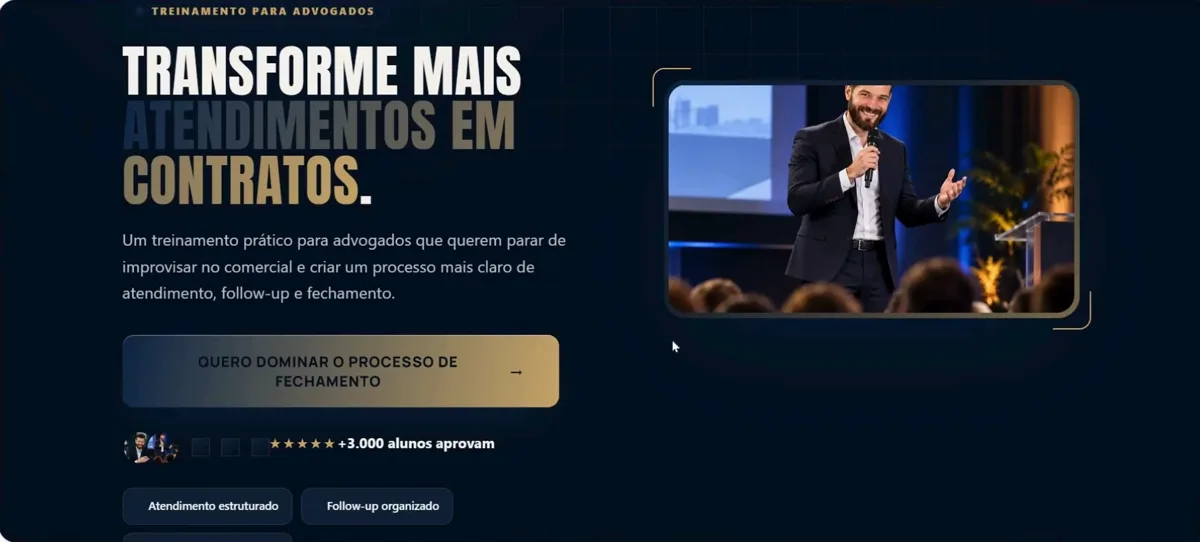
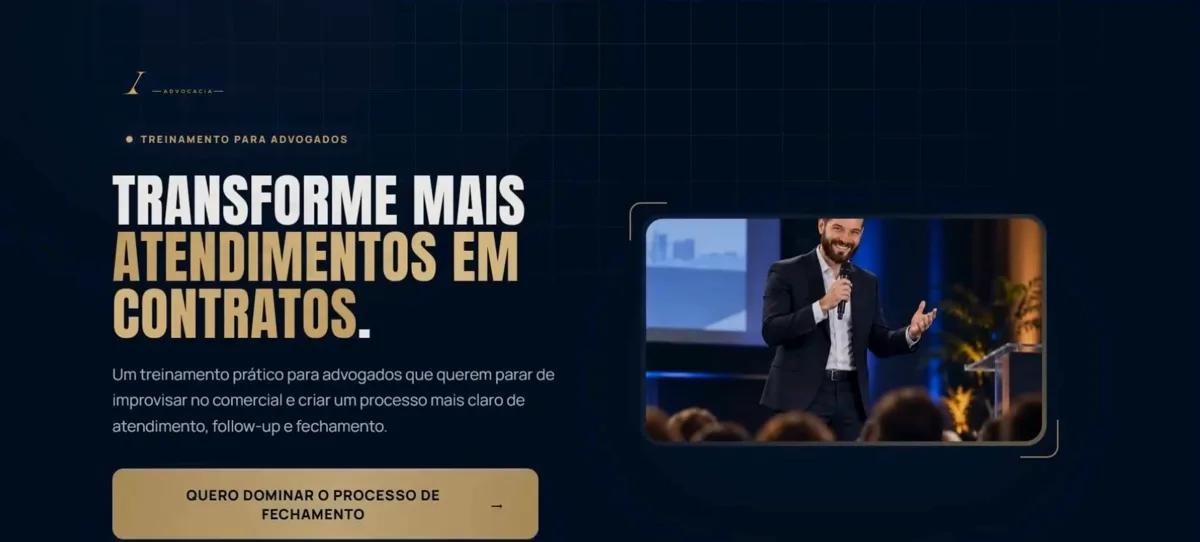
Páginas Prontas: remove linha de autoridade e usa versão ajustada da página de vendas no antes e depois
Claude-Session: https://claude.ai/code/session_01U7DvivHsMJ2KgQ86BEfceM

diff --git a/ketlin-espinoza-site/paginas-prontas.html b/ketlin-espinoza-site/paginas-prontas.html
@@ -89,11 +89,6 @@ mark{background:none;color:var(--roxo)}
 .cta-info b{color:var(--txt);font-weight:700}
 .cta-meio{margin-top:30px}
 
-/* AUTORIDADE (linha no hero) */
-.autoridade{display:inline-flex;align-items:center;gap:12px;margin:0 auto 22px;padding:8px 18px 8px 8px;background:#fff;border:1px solid var(--borda);border-radius:60px;text-align:left;font-size:14px;line-height:1.4;color:var(--mut);max-width:620px}
-.autoridade img{width:44px;height:44px;border-radius:50%;flex:none;object-fit:cover}
-.autoridade b{color:var(--txt);font-weight:700}
-
 /* DEMO (vídeo em loop, funciona como GIF) */
 .demo .tela-demo{max-width:900px;margin:28px auto 0;border-radius:18px;overflow:hidden;background:#0d1426;box-shadow:0 30px 60px -25px rgba(23,9,48,.55);border:6px solid #fff}
 .demo video{display:block;width:100%;height:auto;aspect-ratio:2/1;background:#0d1426}
@@ -338,8 +333,6 @@ details p{padding:0 0 18px;color:var(--mut);line-height:1.65}
   .lista-check li{font-size:14.5px;padding:12px 14px}
   .btn{font-size:16.5px;padding:18px 18px}
   .recap .l{padding:13px 16px;font-size:14.5px}
-  .autoridade{font-size:12.5px;padding:6px 14px 6px 6px;gap:10px;border-radius:22px}
-  .autoridade img{width:38px;height:38px}
   .demo .tela-demo{border-width:4px;border-radius:14px}
   .demo .passinhos{flex-direction:column;align-items:center}
 }
@@ -363,7 +356,6 @@ document.addEventListener('click',function(e){if(!window.fbq||!e.target.closest)
     <div>
       <h1 class="h1">Copie e cole minhas <mark>10 páginas profissionais</mark> e deixe a IA personalizar tudo com a sua marca em minutos</h1>
       <p class="sub">Mesmo que você não saiba nada de design ou programação.</p>
-      <p class="autoridade"><img src="/imagens/avatar-ketlin.webp" alt="Ketlin Espinoza" width="96" height="96"><span>Criado por <b>Ketlin Espinoza</b>, web designer há 10 anos que faz páginas para gestores de tráfego, agências e empresas.</span></p>
       <div class="selos">
         <span>Pronta em minutos</span>
         <span>Qualquer IA</span>
